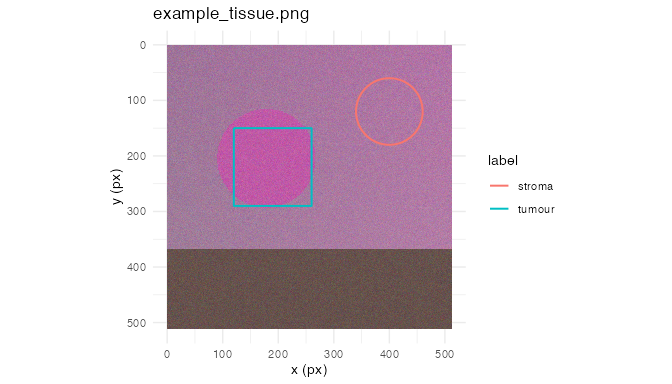
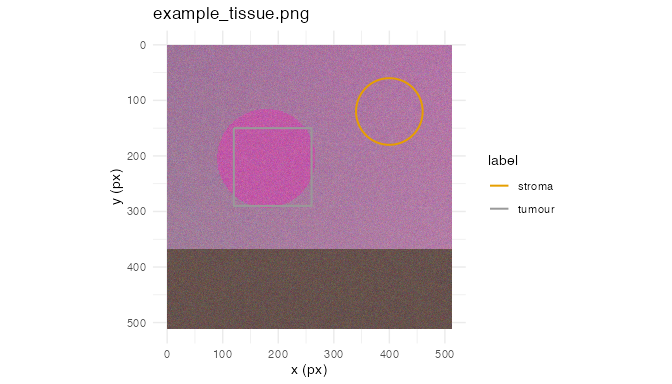
Draw overlay outlines on a white casing and re-knit the README

diff --git a/NEWS.md b/NEWS.md
@@ -105,11 +105,17 @@ package for a first CRAN submission.
   extraction table. A wrong value now fails with a classified
   `at_validation_error` instead of a subscript or coercion error. A `rgb`
   vector that is not of length three is rejected; it was silently ignored.
+* `at_plot_overlay()` draws every outline and point marker on a white casing,
+  so each label colour stays legible on any image, including the neutral grey
+  that opens the default palette.
 * `at_read_rois_csv()` reports an empty file and a `geometry` column that is
   not valid WKT as validation errors that name the file.
 * A style from `at_style()` prints as a compact summary instead of a raw
   list, and the summary of an unnamed project prints `(unnamed)` instead of
   `NA`.
+* The backend availability tests expect the Cubert backend only where the
+  `cuvis.r` package and its vendor SDK are both usable. They failed on a
+  machine with `cuvis.r` installed but without the SDK.
 
 # hyperannotatR 0.3.0
 

diff --git a/README.md b/README.md
@@ -201,9 +201,10 @@ scripts), and code refactoring. Tools included [Chat
 AI](https://kisski.gwdg.de/leistungen/2-02-llm-service/), the KISSKI
 (GWDG) service, and self-hosted **Mistral Small (24B, Apache-2.0)**
 served through a local **vLLM architecture** on an Ubuntu Linux
-workstation with Intel processors and NVIDIA GPUs. Self-hosted use also includes models that were
-further trained (fine-tuned) or weight-edited in-house for specific tasks.
-All self-hosted models ran locally, with no data sent to third parties.
+workstation with Intel processors and NVIDIA GPUs. Self-hosted use also
+includes models that were further trained (fine-tuned) or weight-edited
+in-house for specific tasks. All self-hosted models ran locally, with no
+data sent to third parties.
 
 All scientific claims, methodological choices, analyses, interpretations
 and conclusions remain the authors’ own. Where applicable, LLM-generated
